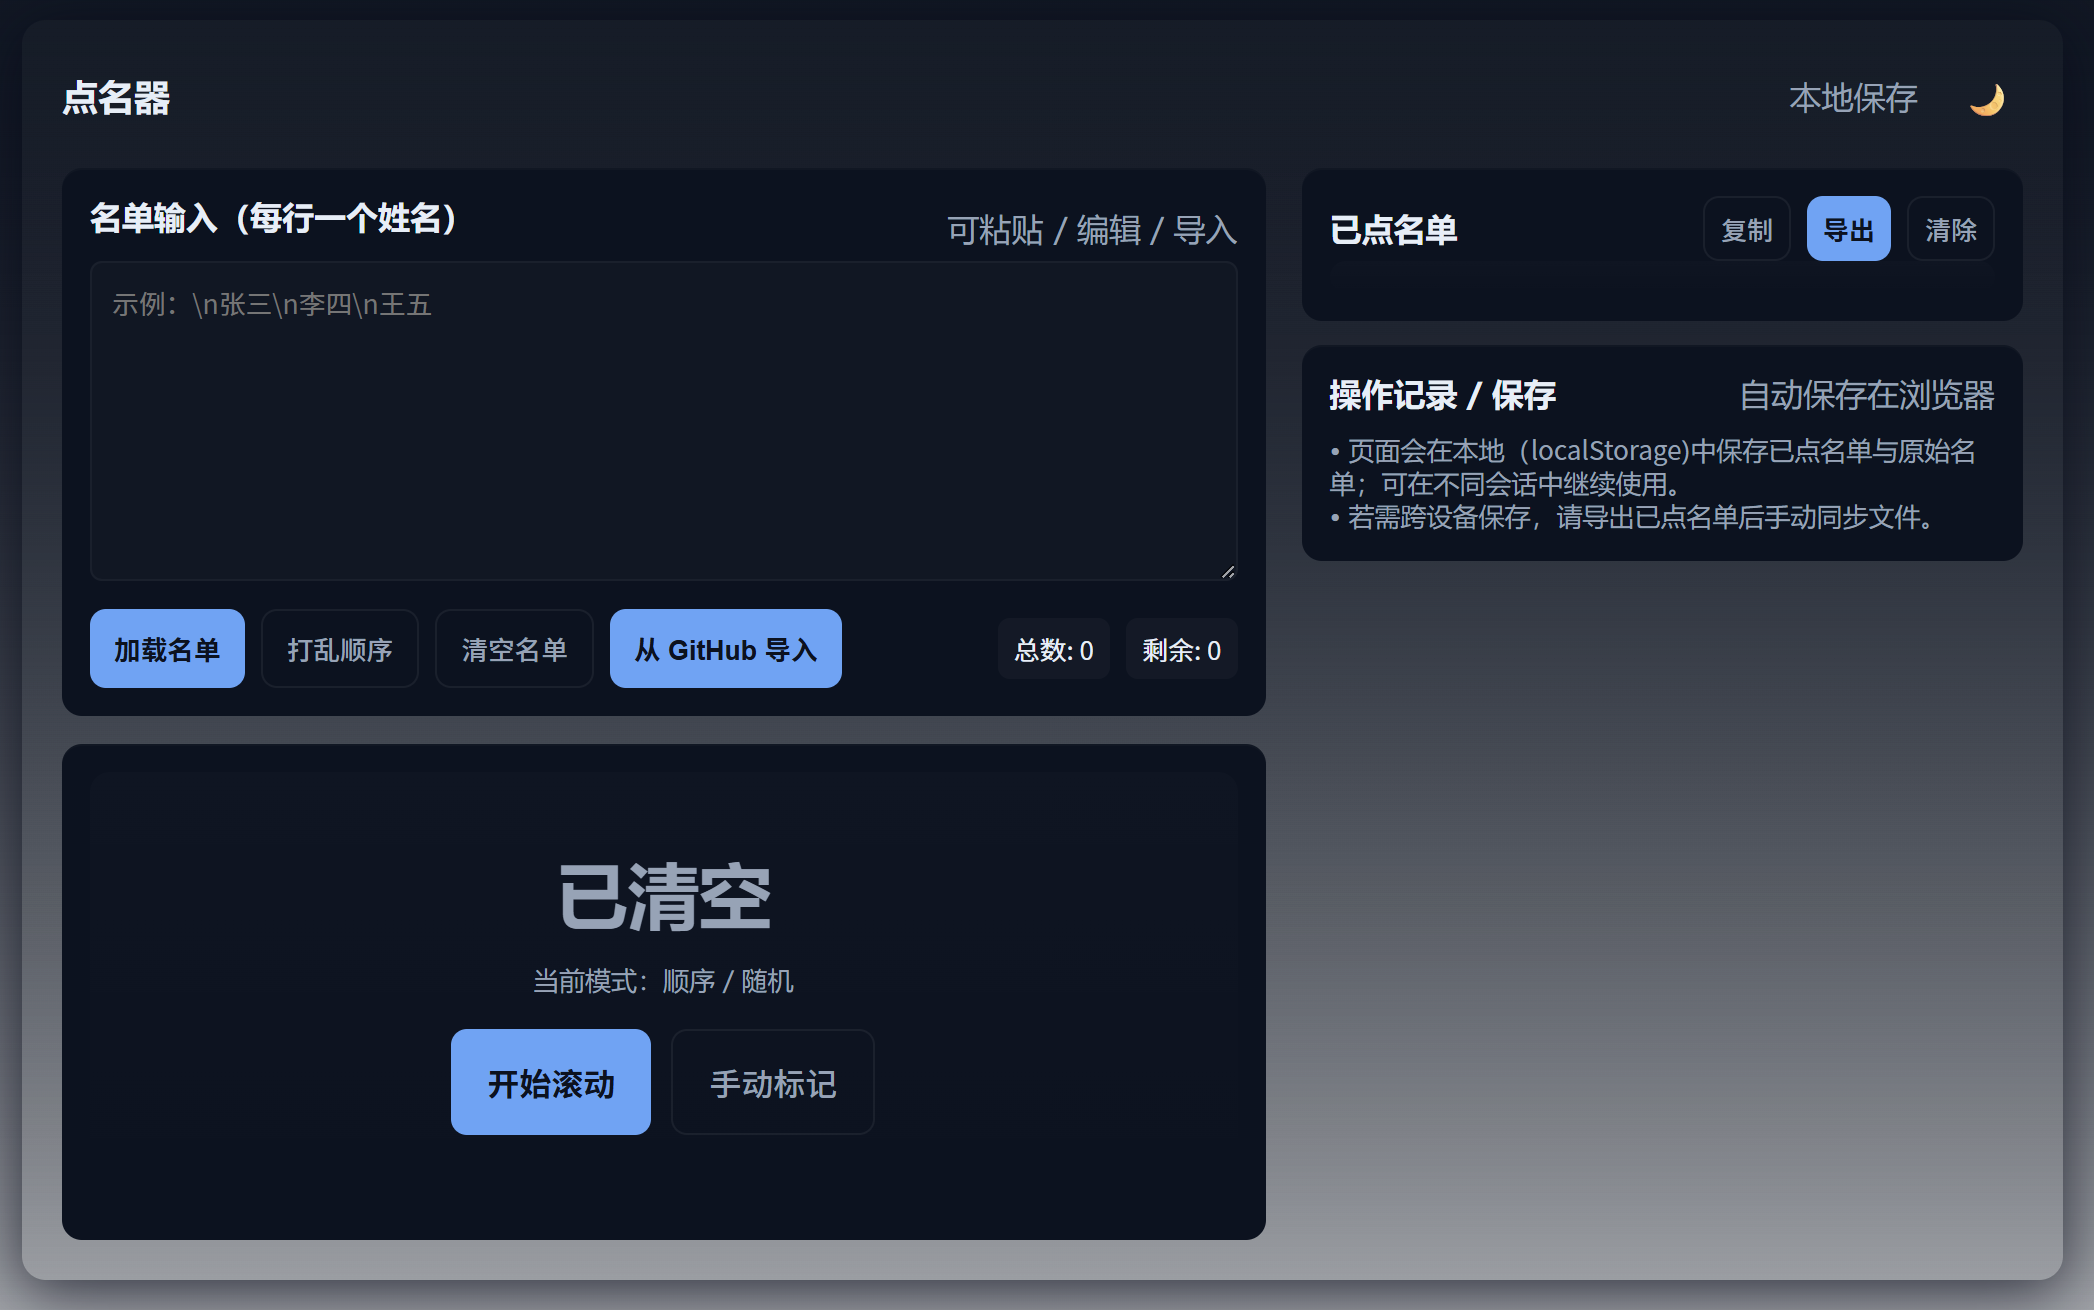
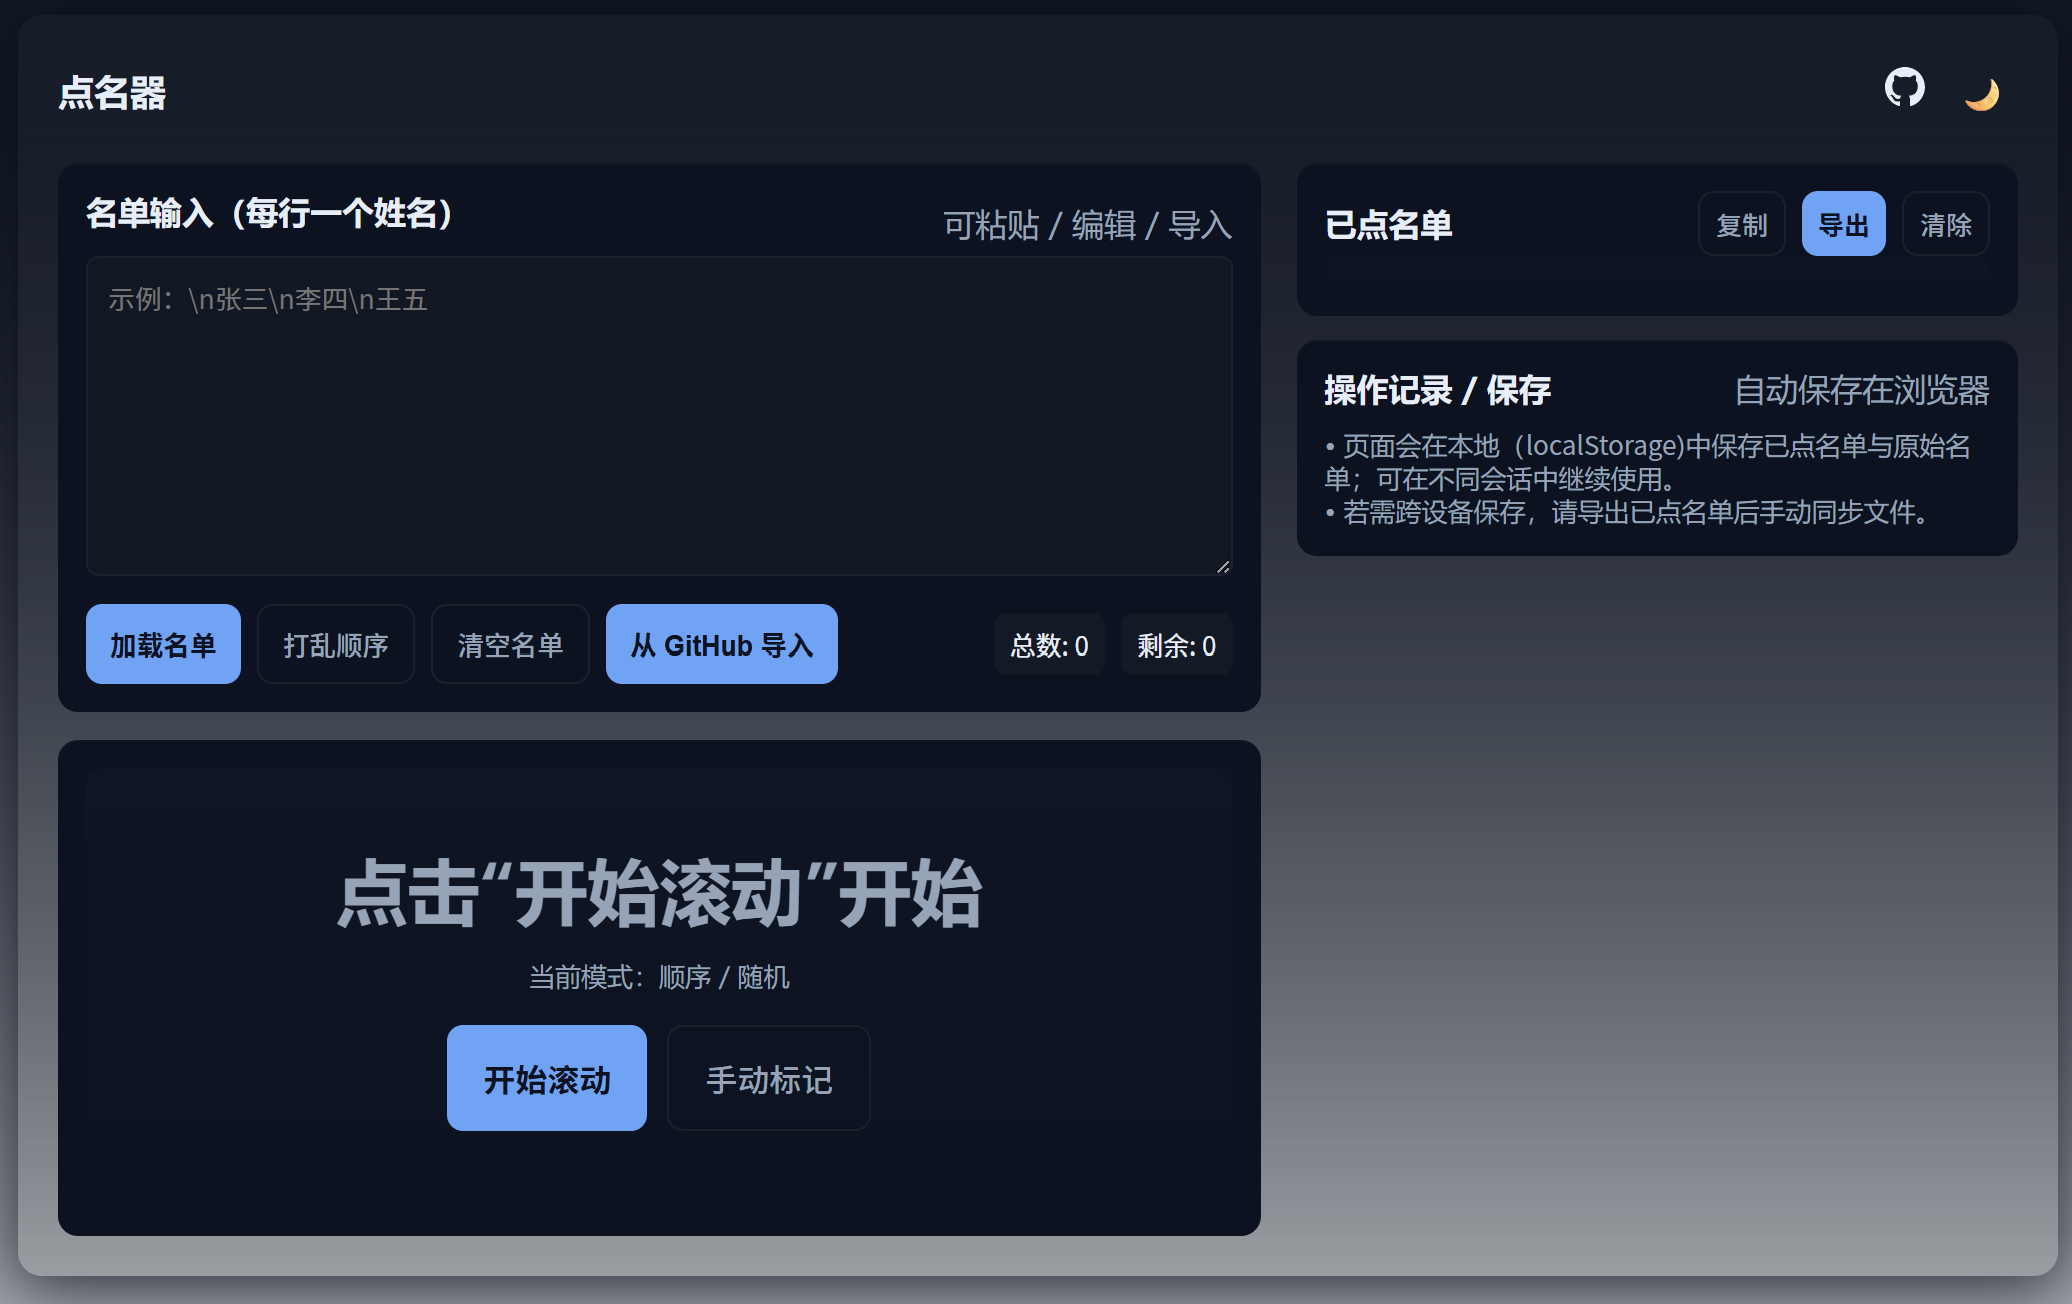
更新首页标题，添加 GitHub 链接，优化页面结构

diff --git a/index.html b/index.html
@@ -39,9 +39,10 @@
 <body>
   <div class="app">
     <header>
+      
       <h1>点名器</h1>
       <div style="display:flex;align-items:center;gap:10px">
-        <div class="muted" style="margin-right:6px">本地保存</div>
+        <a href="https://github.com/psychelzh/rollcall" target="_blank" style="color: var(--text); text-decoration: none; font-size: 18px;"><svg height="20" viewBox="0 0 16 16" width="20" fill="currentColor"><path d="M8 0C3.58 0 0 3.58 0 8c0 3.54 2.29 6.53 5.47 7.59.4.07.55-.17.55-.38 0-.19-.01-.82-.01-1.49-2.01.37-2.53-.49-2.69-.94-.09-.23-.48-.94-.82-1.13-.28-.15-.68-.52-.01-.53.63-.01 1.08.58 1.23.82.72 1.21 1.87.87 2.33.66.07-.52.28-.87.51-1.07-1.78-.2-3.64-.89-3.64-3.95 0-.87.31-1.59.82-2.15-.08-.2-.36-1.02.08-2.12 0 0 .67-.21 2.2.82.64-.18 1.32-.27 2-.27.68 0 1.36.09 2 .27 1.53-1.04 2.2-.82 2.2-.82.44 1.1.16 1.92.08 2.12.51.56.82 1.27.82 2.15 0 3.07-1.87 3.75-3.65 3.95.29.25.54.73.54 1.48 0 1.07-.01 1.93-.01 2.2 0 .21.15.46.55.38A8.013 8.013 0 0016 8c0-4.42-3.58-8-8-8z"></path></svg></a>
         <button id="themeToggle" class="theme-toggle" title="切换白天/夜间主题" aria-label="切换主题">🌙</button>
       </div>
     </header>
